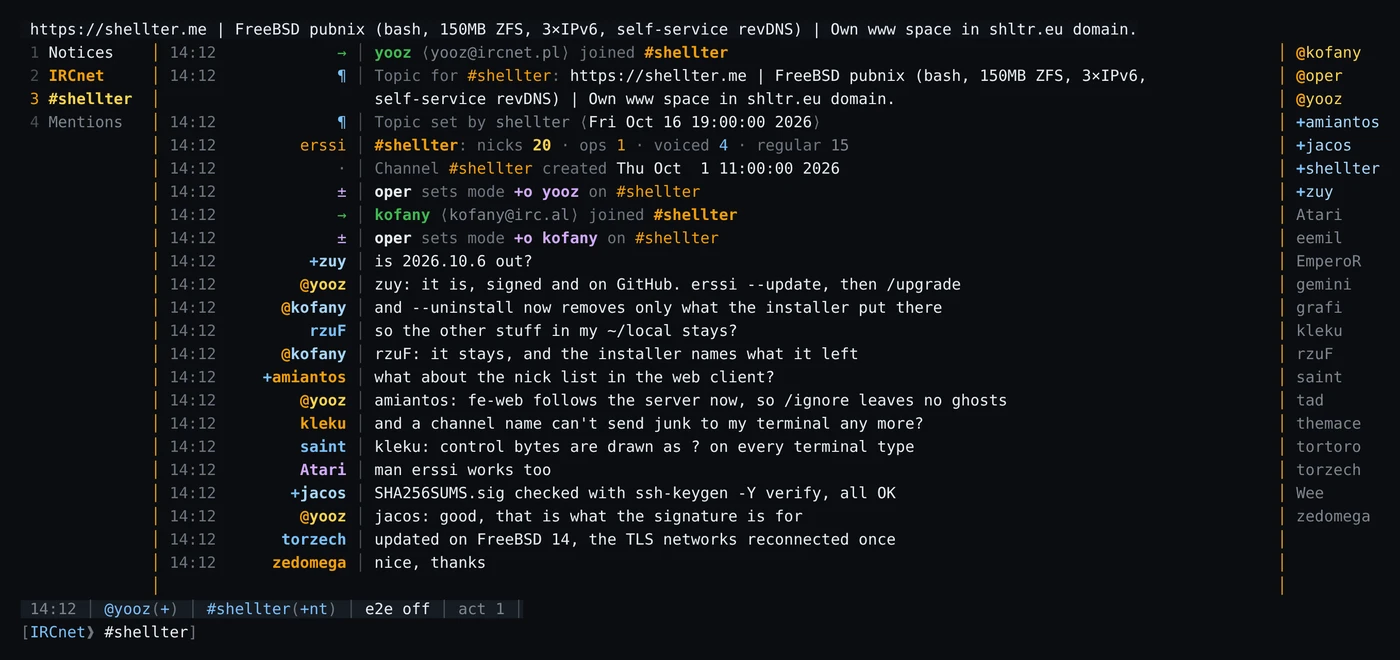
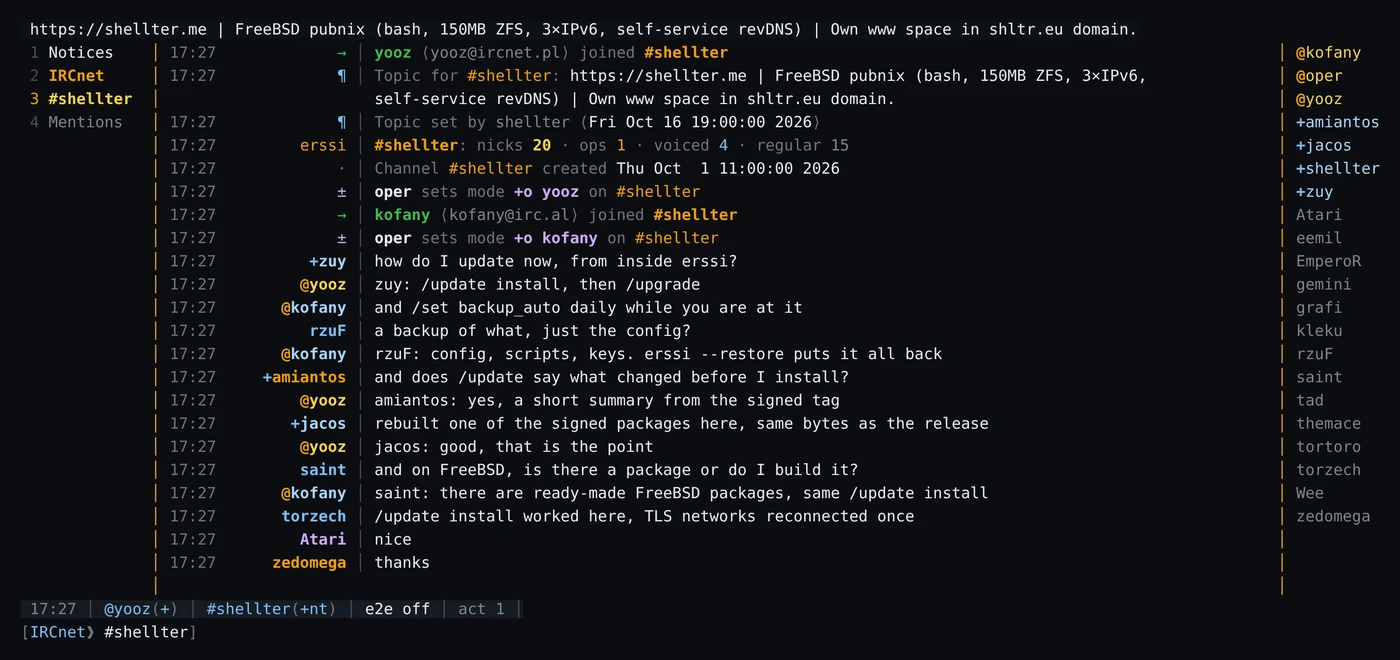
New screenshots for 2026.11.0: /update install, backup_auto, release summary

diff --git a/pl/index.html b/pl/index.html
@@ -88,7 +88,7 @@
         <source media="(prefers-color-scheme: light)" type="image/webp" srcset="../images/shellter-light-1400.webp 1400w, ../images/shellter-light-2716.webp 2716w" sizes="(min-width: 1320px) 1280px, 100vw">
         <source type="image/webp" srcset="../images/shellter-dark-1400.webp 1400w, ../images/shellter-dark-2716.webp 2716w" sizes="(min-width: 1320px) 1280px, 100vw">
         <img src="../images/shellter-dark-1400.png" width="1400" height="660"
-             alt="erssi na #shellter w IRCnecie. Po lewej lista okien: Notices, IRCnet, #shellter, Mentions. Pośrodku yooz (yooz@ircnet.pl) i kofany (kofany@irc.al) wchodzą na kanał i dostają opa od oper, potem ludzie na kanale rozmawiają po angielsku o wydaniu: zuy pyta, czy 2026.10.6 już jest, yooz odpowiada, że jest podpisane i na GitHubie, kofany mówi, że --uninstall usuwa teraz tylko to, co zainstalował instalator, saint, że bajty sterujące są rysowane jako znak zapytania, jacos, że SHA256SUMS.sig się zgadza. Po prawej lista nicków według rangi: opy kofany, oper, yooz; voice amiantos, jacos, shellter, zuy; potem reszta.">
+             alt="erssi na #shellter w IRCnecie. Po lewej lista okien: Notices, IRCnet, #shellter, Mentions. Pośrodku yooz (yooz@ircnet.pl) i kofany (kofany@irc.al) wchodzą na kanał i dostają opa od oper, potem ludzie na kanale rozmawiają po angielsku o nowościach: zuy pyta, jak zaktualizować z wnętrza erssi, yooz odpowiada: /update install, potem /upgrade, kofany dorzuca /set backup_auto daily i to, że erssi --restore przywraca konfigurację, skrypty i klucze, yooz mówi, że /update pokazuje krótkie podsumowanie z podpisanego taga, jacos zbudował jedną z podpisanych paczek i dostał te same bajty, kofany odpowiada saintowi, że są gotowe paczki dla FreeBSD, torzech pisze, że /update install zadziałało, a sieci TLS połączyły się raz na nowo. Po prawej lista nicków według rangi: opy kofany, oper, yooz; voice amiantos, jacos, shellter, zuy; potem reszta.">
       </picture>
     </div>
     <figcaption>erssi na #shellter, z prawdziwymi nickami z kanału. Ich wypowiedzi napisano na potrzeby tego obrazka.</figcaption>
@@ -129,7 +129,7 @@
           <h3><svg class="icon" aria-hidden="true"><use href="#i-palette"/></svg>Jedna kolumna dla każdej linii</h3>
           <p>Motyw <code>shellter</code> ustawia wiadomości, zdarzenia i odpowiedzi pod jednym separatorem, w kolorach shellter.me; <code>shellter-light</code> dla jasnych terminali.</p>
           <div class="themes">
-            <figure><figcaption>shellter</figcaption><img src="../images/theme-dark.webp" width="1266" height="186" loading="lazy" alt="Te same linie w motywie shellter: oper daje +o yooz, kofany wchodzi na kanał, oper daje +o kofany, zuy pyta, czy 2026.10.6 już jest."></figure>
+            <figure><figcaption>shellter</figcaption><img src="../images/theme-dark.webp" width="1266" height="186" loading="lazy" alt="Te same linie w motywie shellter: oper daje +o yooz, kofany wchodzi na kanał, oper daje +o kofany, zuy pyta, jak zaktualizować z wnętrza erssi."></figure>
             <figure><figcaption>shellter-light</figcaption><img src="../images/theme-light.webp" width="1266" height="186" loading="lazy" alt="Te same linie w motywie shellter-light."></figure>
           </div>
         </article>

diff --git a/index.html b/index.html
@@ -88,7 +88,7 @@
         <source media="(prefers-color-scheme: light)" type="image/webp" srcset="images/shellter-light-1400.webp 1400w, images/shellter-light-2716.webp 2716w" sizes="(min-width: 1320px) 1280px, 100vw">
         <source type="image/webp" srcset="images/shellter-dark-1400.webp 1400w, images/shellter-dark-2716.webp 2716w" sizes="(min-width: 1320px) 1280px, 100vw">
         <img src="images/shellter-dark-1400.png" width="1400" height="660"
-             alt="erssi in #shellter on IRCnet. On the left the window list: Notices, IRCnet, #shellter, Mentions. In the middle yooz (yooz@ircnet.pl) and kofany (kofany@irc.al) join and get op from oper, then people on the channel talk about the release: zuy asks whether 2026.10.6 is out, yooz says it is signed and on GitHub, kofany says --uninstall now removes only what the installer put there, saint says control bytes are drawn as a question mark, jacos says SHA256SUMS.sig checked out. On the right the nick list by rank: ops kofany, oper, yooz; voiced amiantos, jacos, shellter, zuy; then the rest.">
+             alt="erssi in #shellter on IRCnet. On the left the window list: Notices, IRCnet, #shellter, Mentions. In the middle yooz (yooz@ircnet.pl) and kofany (kofany@irc.al) join and get op from oper, then people on the channel talk about what is new: zuy asks how to update from inside erssi, yooz says /update install, then /upgrade, kofany adds /set backup_auto daily, and that erssi --restore puts config, scripts and keys back, yooz says /update shows a short summary from the signed tag, jacos rebuilt one of the signed packages and got the same bytes, kofany tells saint there are ready-made FreeBSD packages, torzech says /update install worked and the TLS networks reconnected once. On the right the nick list by rank: ops kofany, oper, yooz; voiced amiantos, jacos, shellter, zuy; then the rest.">
       </picture>
     </div>
     <figcaption>erssi in #shellter, with the real nicks of the channel. The lines they say were written for this picture.</figcaption>
@@ -129,7 +129,7 @@
           <h3><svg class="icon" aria-hidden="true"><use href="#i-palette"/></svg>One column for every line</h3>
           <p>The <code>shellter</code> theme puts messages, events and replies under one separator, in the colours of shellter.me; <code>shellter-light</code> for light terminals.</p>
           <div class="themes">
-            <figure><figcaption>shellter</figcaption><img src="images/theme-dark.webp" width="1266" height="186" loading="lazy" alt="The same lines in the shellter theme: oper sets mode +o yooz, kofany joins, oper sets mode +o kofany, zuy asks whether 2026.10.6 is out."></figure>
+            <figure><figcaption>shellter</figcaption><img src="images/theme-dark.webp" width="1266" height="186" loading="lazy" alt="The same lines in the shellter theme: oper sets mode +o yooz, kofany joins, oper sets mode +o kofany, zuy asks how to update from inside erssi."></figure>
             <figure><figcaption>shellter-light</figcaption><img src="images/theme-light.webp" width="1266" height="186" loading="lazy" alt="The same lines in the shellter-light theme."></figure>
           </div>
         </article>
